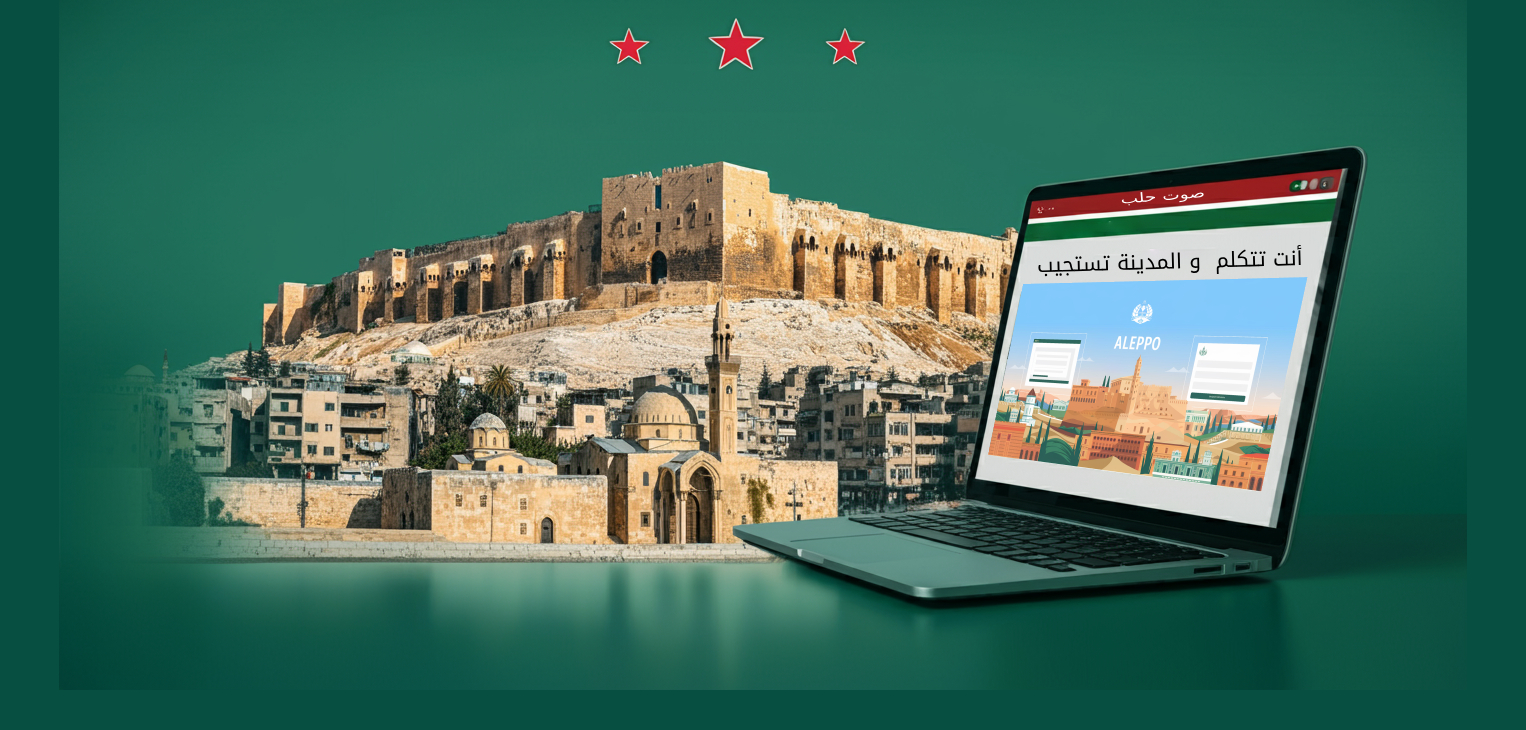
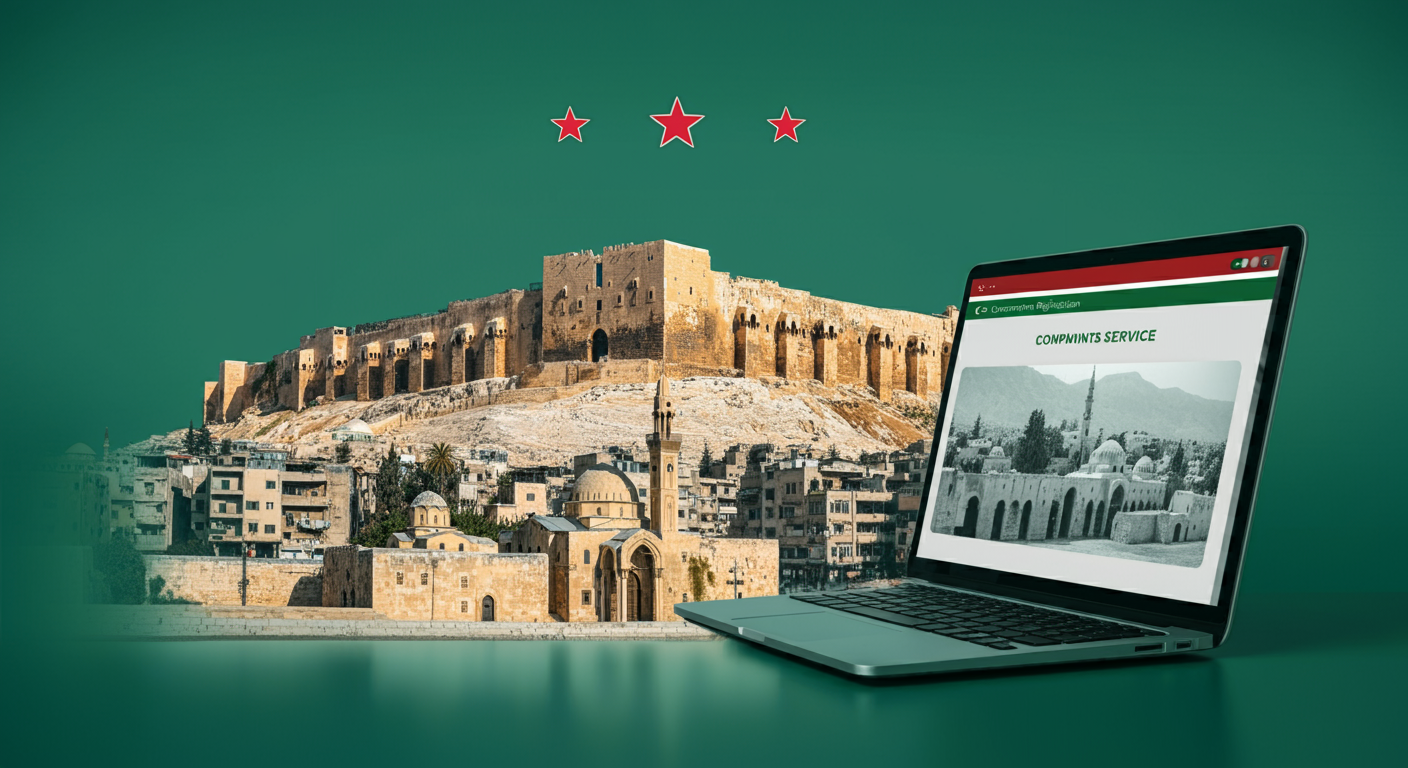
second push

diff --git a/components/HeroSection.tsx b/components/HeroSection.tsx
@@ -2,6 +2,7 @@
 
 import * as React from "react";
 import ImmediateNewsBar from "./ImmediateNewsBar";
+import Image from "next/image";
 
 
 export function HeroSection() {
@@ -17,21 +18,24 @@ export function HeroSection() {
   }, []);
 
   return (
-    <div className="relative w-full flex justify-center items-center mb-[73px] z-10 bg-[url('/bgforhero.jpg')] bg-cover bg-[50%_50%] md:bg-top py-[390px]">
+    <div className="relative w-full flex justify-center items-center mb-[73px] z-10 md:bg-top py-[390px]">
       {/* Cloud background overlay */}
+      <Image
+        src="/bgforhero.jpg"
+        alt="Background"
+        layout="fill"
+        objectFit="cover"
+        className="bg-top"
+      />
       <div
         className="absolute z-20 w-full h-full flex justify-center items-center"
-        style={{
-          backgroundImage: "url('')",
-          backgroundSize: "cover",
-        }}
       >
         {/* Hero content */}
-        <div className="text-center relative z-50 -translate-y-24">
+        <div className="text-center relative z-50 -translate-y-64 -translate-x-8">
           <h1 className="text-4xl md:text-6xl font-bold text-gray-50 mb-4">
             صوت حلب
           </h1>
-          <p className="text-lg md:text-xl text-gray-600">
+          <p className="text-lg md:text-xl text-gray-300">
           أنت تتكلم ... و المدينة تستجيب
           </p>
         </div>
